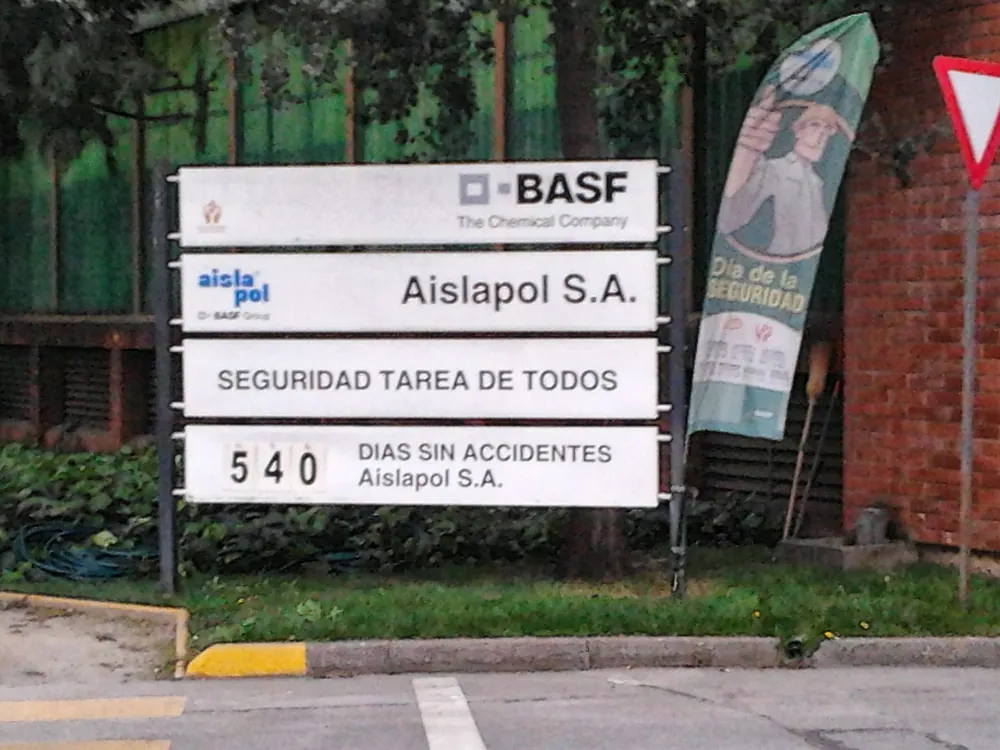
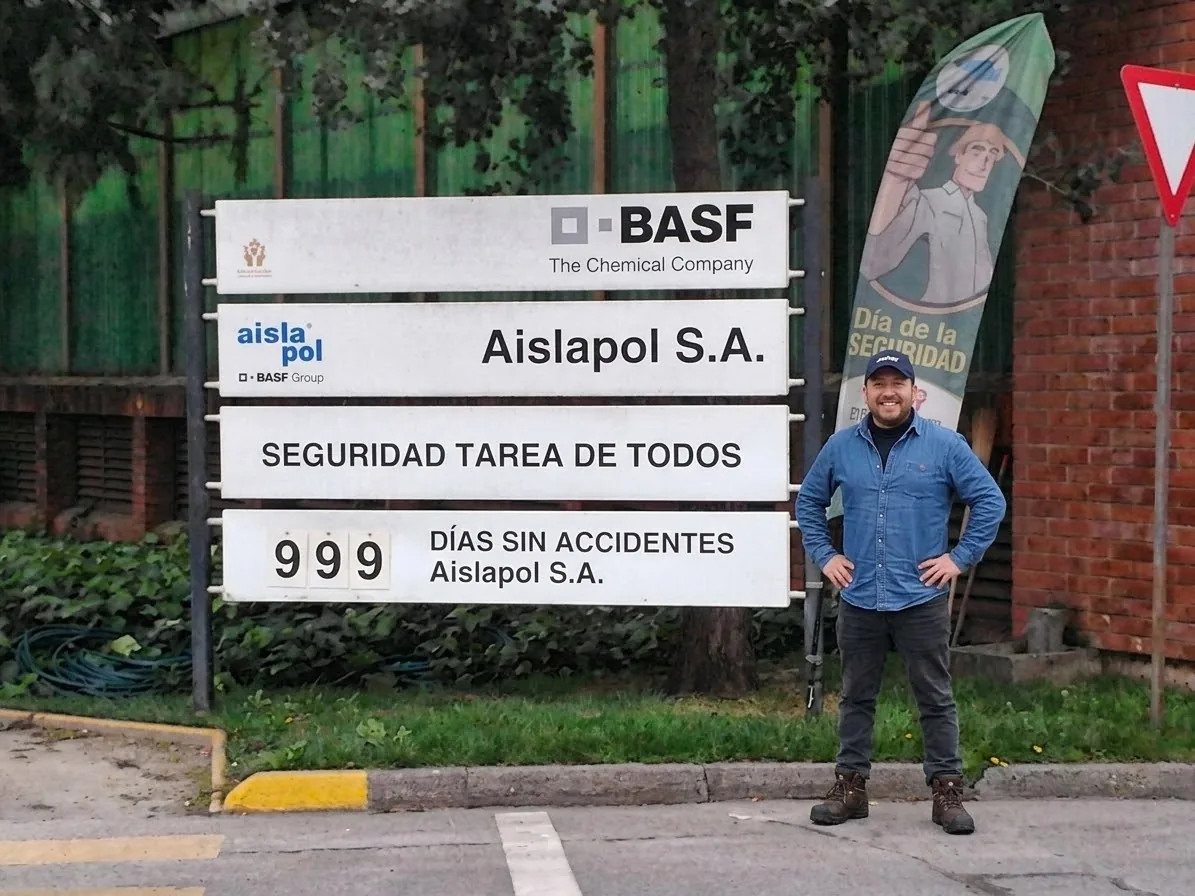
Cuadros transparentes, diplomas y herramientas transparentes, caso Aislapol
- Cuadros sobre fotos de fondo solo con marco (excepto fiscalizaciones).
- Sección digital renombrada 'Seguridad superinteligente'.
- Nueva foto de Hans en Aislapol y caso real: de 20 accidentes al año
  a más de 3 años consecutivos sin accidentes.

Claude-Session: https://claude.ai/code/session_017Tpmnq8JcWow7ZpMtxcRkJ

diff --git a/index.html b/index.html
@@ -346,7 +346,8 @@
       <div class="bg-photo-img" aria-hidden="true"><img src="assets/img/digital-irl-firma.webp" alt="" width="1024" height="1038" loading="lazy" style="object-position:center 40%"></div>
       <div class="wrap">
         <p class="eyebrow on-dark">SafetyCoach Digital</p>
-        <h2 id="dig-t">Tu experiencia, mi expertise y la tecnología: juntos creamos seguridad inteligente</h2>
+        <h2 id="dig-t">Seguridad superinteligente</h2>
+        <p class="lead-dig">Tu experiencia, mi expertise y la tecnología, trabajando juntos por tu equipo.</p>
         <p class="sub on-dark">Tú conoces tu operación. Tus supervisores y tu equipo saben dónde está el riesgo. Yo aporto más de 20 años en prevención. Sumamos la inteligencia artificial para cocrear contigo herramientas simples, que tu gente usa de verdad y que dejan evidencia de tu gestión, todos los días.</p>
         <p class="pull-dig">No se trata de tener más tecnología. Se trata de que la tecnología trabaje para cuidar a tu equipo.</p>
         <div class="dig-grid">
@@ -572,12 +573,12 @@
           <figure><img src="assets/img/capacitacion-extintores.webp" alt="Capacitación práctica en uso de extintores con trabajadores" width="1000" height="600" loading="lazy"><figcaption>Capacitación práctica en uso de extintores</figcaption></figure>
           <figure><img src="assets/img/brigada-emergencia.webp" alt="Brigada de emergencia con equipo estructural durante un entrenamiento" width="1000" height="600" loading="lazy"><figcaption>Formación de brigadas de emergencia</figcaption></figure>
           <figure><img src="assets/img/taller-riesgos-3.webp" alt="Taller de identificación de peligros con un equipo de operaciones" width="1000" height="750" loading="lazy"><figcaption>Talleres de identificación de peligros</figcaption></figure>
-          <figure><img src="assets/img/planta-aislapol.webp" alt="Letrero de planta Aislapol S.A., grupo BASF: Seguridad tarea de todos, 540 días sin accidentes" width="1000" height="750" loading="lazy"><figcaption>Aislapol S.A., entonces unidad de negocio de BASF: casi 10 años de trabajo conjunto</figcaption></figure>
+          <figure><img src="assets/img/planta-aislapol.webp" alt="Hans Meneses junto al letrero de Aislapol S.A., grupo BASF: Seguridad tarea de todos, 999 días sin accidentes" width="1195" height="896" loading="lazy" style="object-position:70% 50%"><figcaption><b>Aislapol:</b> pasamos de tener 20 accidentes al año a no tener accidentes por más de 3 años consecutivos.</figcaption></figure>
         </div>
         <div class="proof-grid">
           <blockquote class="ph">[TESTIMONIO REAL]<cite>Nombre, cargo, empresa</cite></blockquote>
           <blockquote class="ph">[TESTIMONIO REAL]<cite>Nombre, cargo, empresa</cite></blockquote>
-          <div class="ph case">[CASO DE ÉXITO]<span>Situación → qué hicimos → resultado</span></div>
+          <div class="case-real"><span class="case-k">Caso real · Aislapol S.A. (grupo BASF)</span><strong>De 20 accidentes al año a más de 3 años consecutivos sin accidentes.</strong><span>Casi 10 años de trabajo conjunto en gestión preventiva y cultura de seguridad.</span></div>
         </div>
         <h3 class="logos-t">Empresas e instituciones con las que he trabajado</h3>
         <div class="logos">

diff --git a/assets/css/styles.css b/assets/css/styles.css
@@ -544,3 +544,29 @@ details p { padding: 0 22px 18px; margin: 0; color: var(--muted); }
 .dig-show { grid-template-columns: repeat(4, 1fr) !important; align-items: start; }
 .dig-show img { height: auto !important; object-fit: contain !important; background: transparent !important; }
 @media (max-width: 760px) { .dig-show { grid-template-columns: 1fr 1fr !important; } }
+
+/* ---------- v4: cuadros transparentes (solo marco) sobre fotos de fondo ---------- */
+.bg-photo .ds-col, .bg-photo .panel, .bg-photo .coach-levels article, .bg-photo .pillars article,
+.bg-photo .compare > div, .bg-photo .maturity, .bg-photo .compare .win {
+  background: transparent !important; box-shadow: none !important; border: 1.5px solid rgba(11,31,58,.28);
+}
+.bg-photo .ds-col { border-top-width: 4px; }
+.bg-photo .compare .win { border: 2px solid var(--green); }
+.bg-photo .mat-tabs button:not([aria-selected="true"]) { background: rgba(255,255,255,.45); }
+/* Fiscalizaciones mantiene sus cuadros blancos */
+#fiscalizaciones .fis-grid article { background: #fff !important; }
+/* Herramientas digitales: tarjetas y capturas transparentes */
+.digital .dig-grid article { background: transparent; border-color: rgba(255,255,255,.35); }
+.digital .dig-results { background: transparent; border-color: rgba(255,255,255,.35); }
+.dig-show img { opacity: .6; transition: opacity .2s; box-shadow: none !important; }
+.dig-show img:hover { opacity: 1; }
+.lead-dig { font: 700 1.2rem/1.4 var(--font-h); color: var(--yellow); margin-top: -4px; }
+/* Diplomas más transparentes */
+.cert-row img { opacity: .5; transition: opacity .2s; }
+.cert-row img:hover { opacity: 1; }
+/* Caso real */
+.case-real { border: 2px solid var(--green); border-radius: 14px; padding: 22px; background: #F4FBF5; }
+.case-real .case-k { display: block; font-size: .78rem; font-weight: 700; letter-spacing: .08em; text-transform: uppercase; color: var(--green-d); }
+.case-real strong { display: block; font-family: var(--font-h); color: var(--navy); font-size: 1.1rem; margin: 6px 0; line-height: 1.3; }
+.case-real span:last-child { color: var(--muted); font-size: .9rem; }
+.gallery figcaption b { color: var(--navy); }
